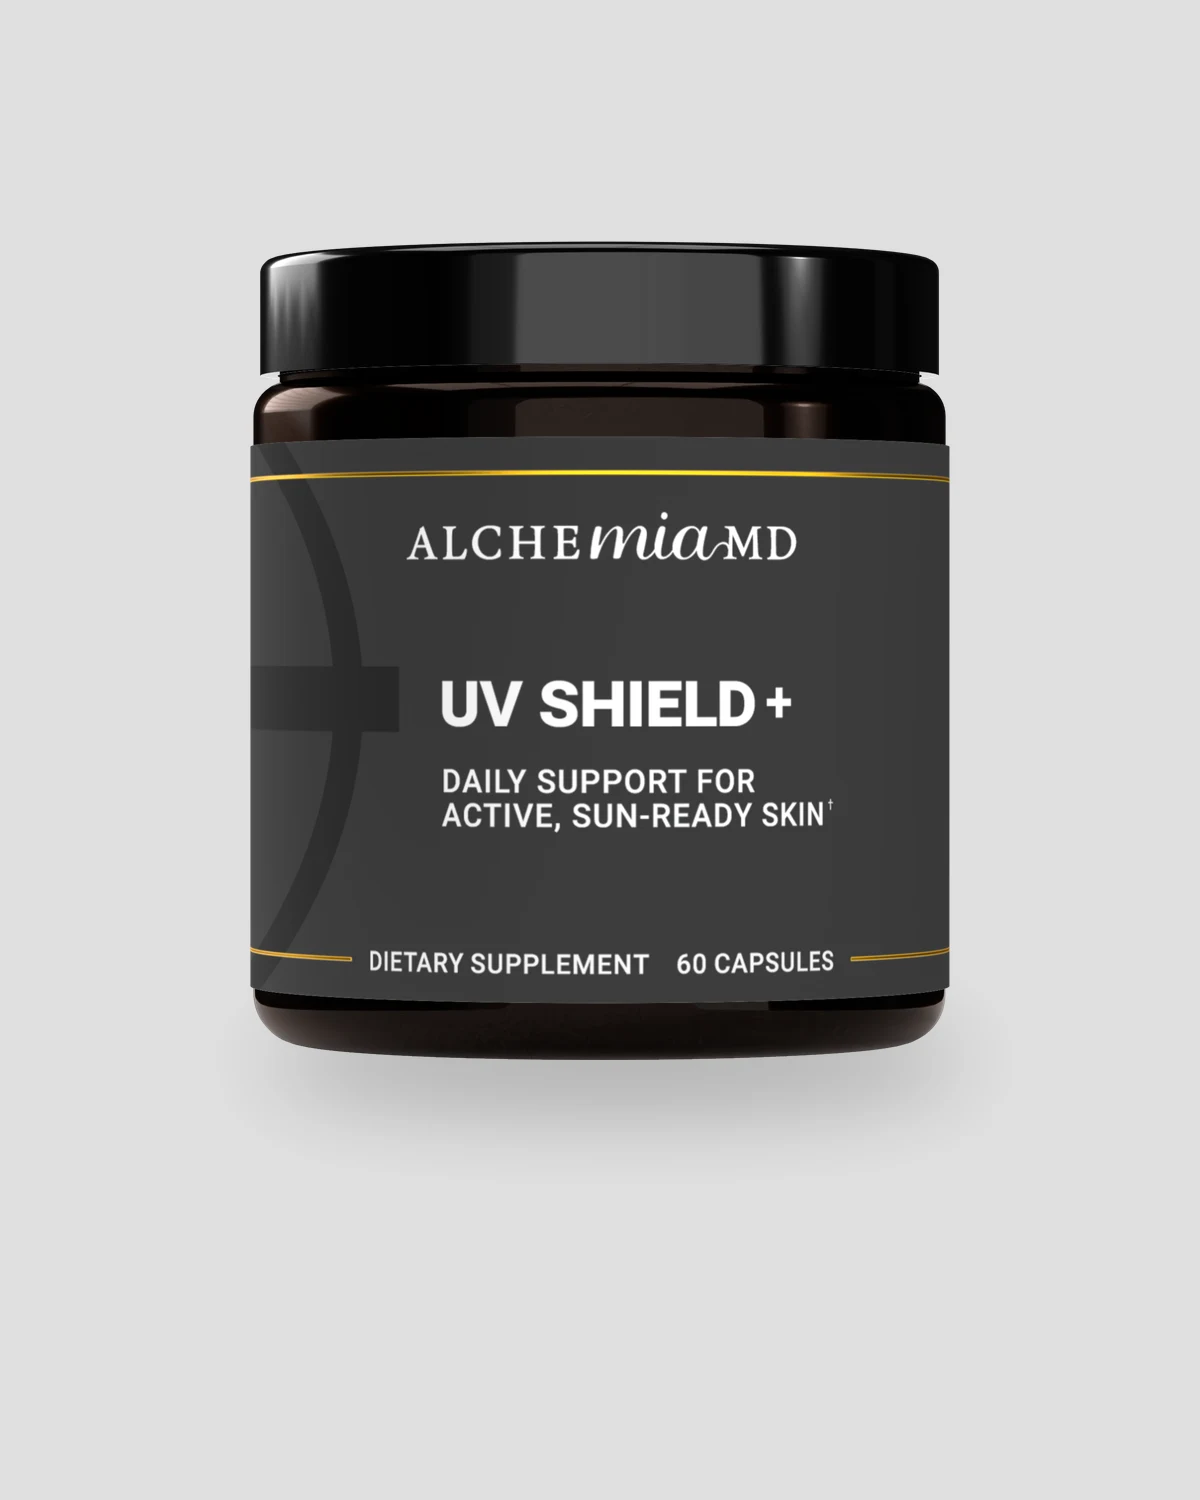
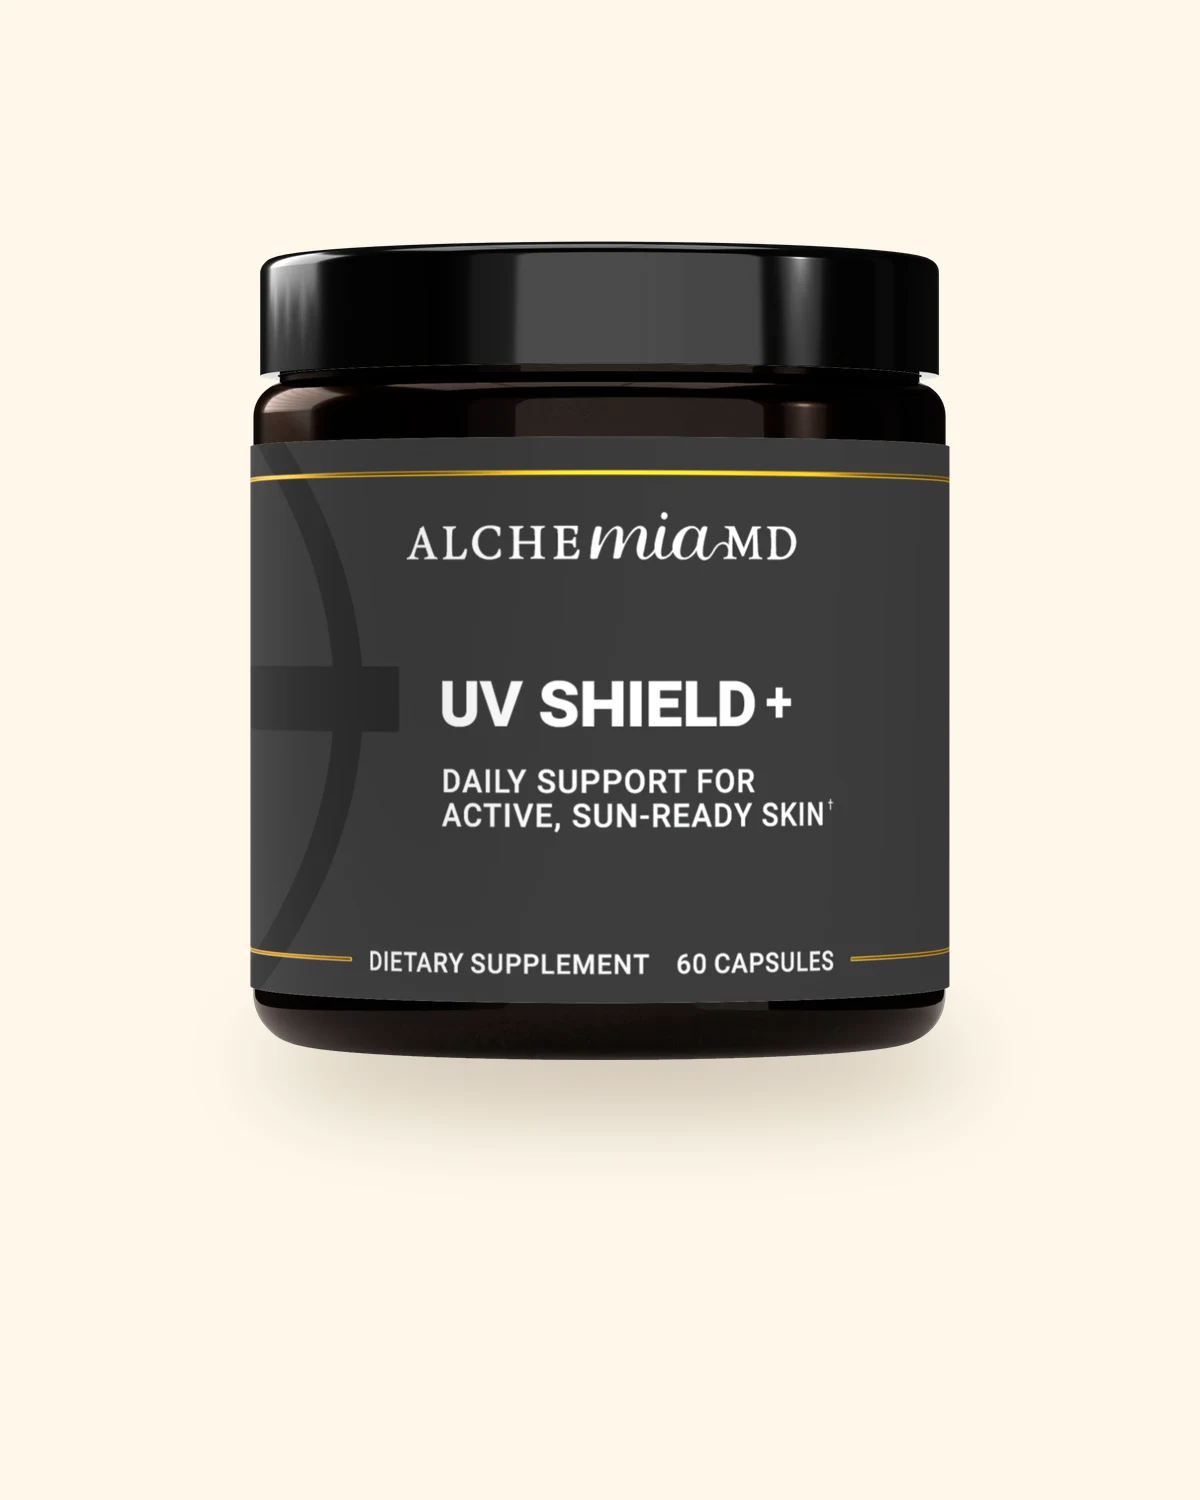
Product images and product cards on cream #FEF7EA
Claude-Session: https://claude.ai/code/session_01MgaF6EDRU73ckStp9JY6YT

diff --git a/assets/theme.css b/assets/theme.css
@@ -1976,3 +1976,9 @@ h3 { font-size: clamp(1.35rem, 1.9vw, 1.75rem); }
 
 /* "Start here" kicker in white (Nov 20) */
 p.home-buy__kicker, .section p.home-buy__kicker { color: #fff; }
+
+/* Product cards and product image tiles in cream #FEF7EA (Nov 20), matching the product images' background. */
+:root { --t-card-cream: #FEF7EA; }
+:is(.shopcard, .pcard, .sel-card, .finder-card):not(.scheme-dark *):not(.scheme-green *) { background: var(--t-card-cream); }
+.hform__media { background: var(--t-card-cream); }
+:is(.shopcard__media, .pcard__media, .sel-card__media, .finder-card__media, .bundle-tab__media) .media { background: var(--t-card-cream); }

diff --git a/docs/STYLE-RULES.md b/docs/STYLE-RULES.md
@@ -35,7 +35,7 @@ Paste this into any chat that writes or designs for Alchemia MD. It replaces the
 | Ink | #212121 | Text on light backgrounds |
 
 ## Layout
-- Photos have rounded corners (16px; 12px on small tiles). Product jar photos sit square on a light grey tile (#E0E0E0), on every page (product images use the same grey background).
+- Photos have rounded corners (16px; 12px on small tiles). Product images and product cards use cream #FEF7EA behind the jars, on every page.
 - A short thick rule (grey #AFAFAF or tan #DEBC8C, about 155 × 6px) can sit above a section, top left.
 - Footer: mailing list row (tan ALL CAPS label, pill email field with Subscribe), thin tan rule, four columns (Shop, Learn, Support, Legal) with tan headings and small caps links, FDA statement and copyright centred.
 - Home page order: hero (jar on olive slope) → credit band → SPF statement → layered routine → activities → formula cards → first 90 days → founder note → mailing list / footer.
